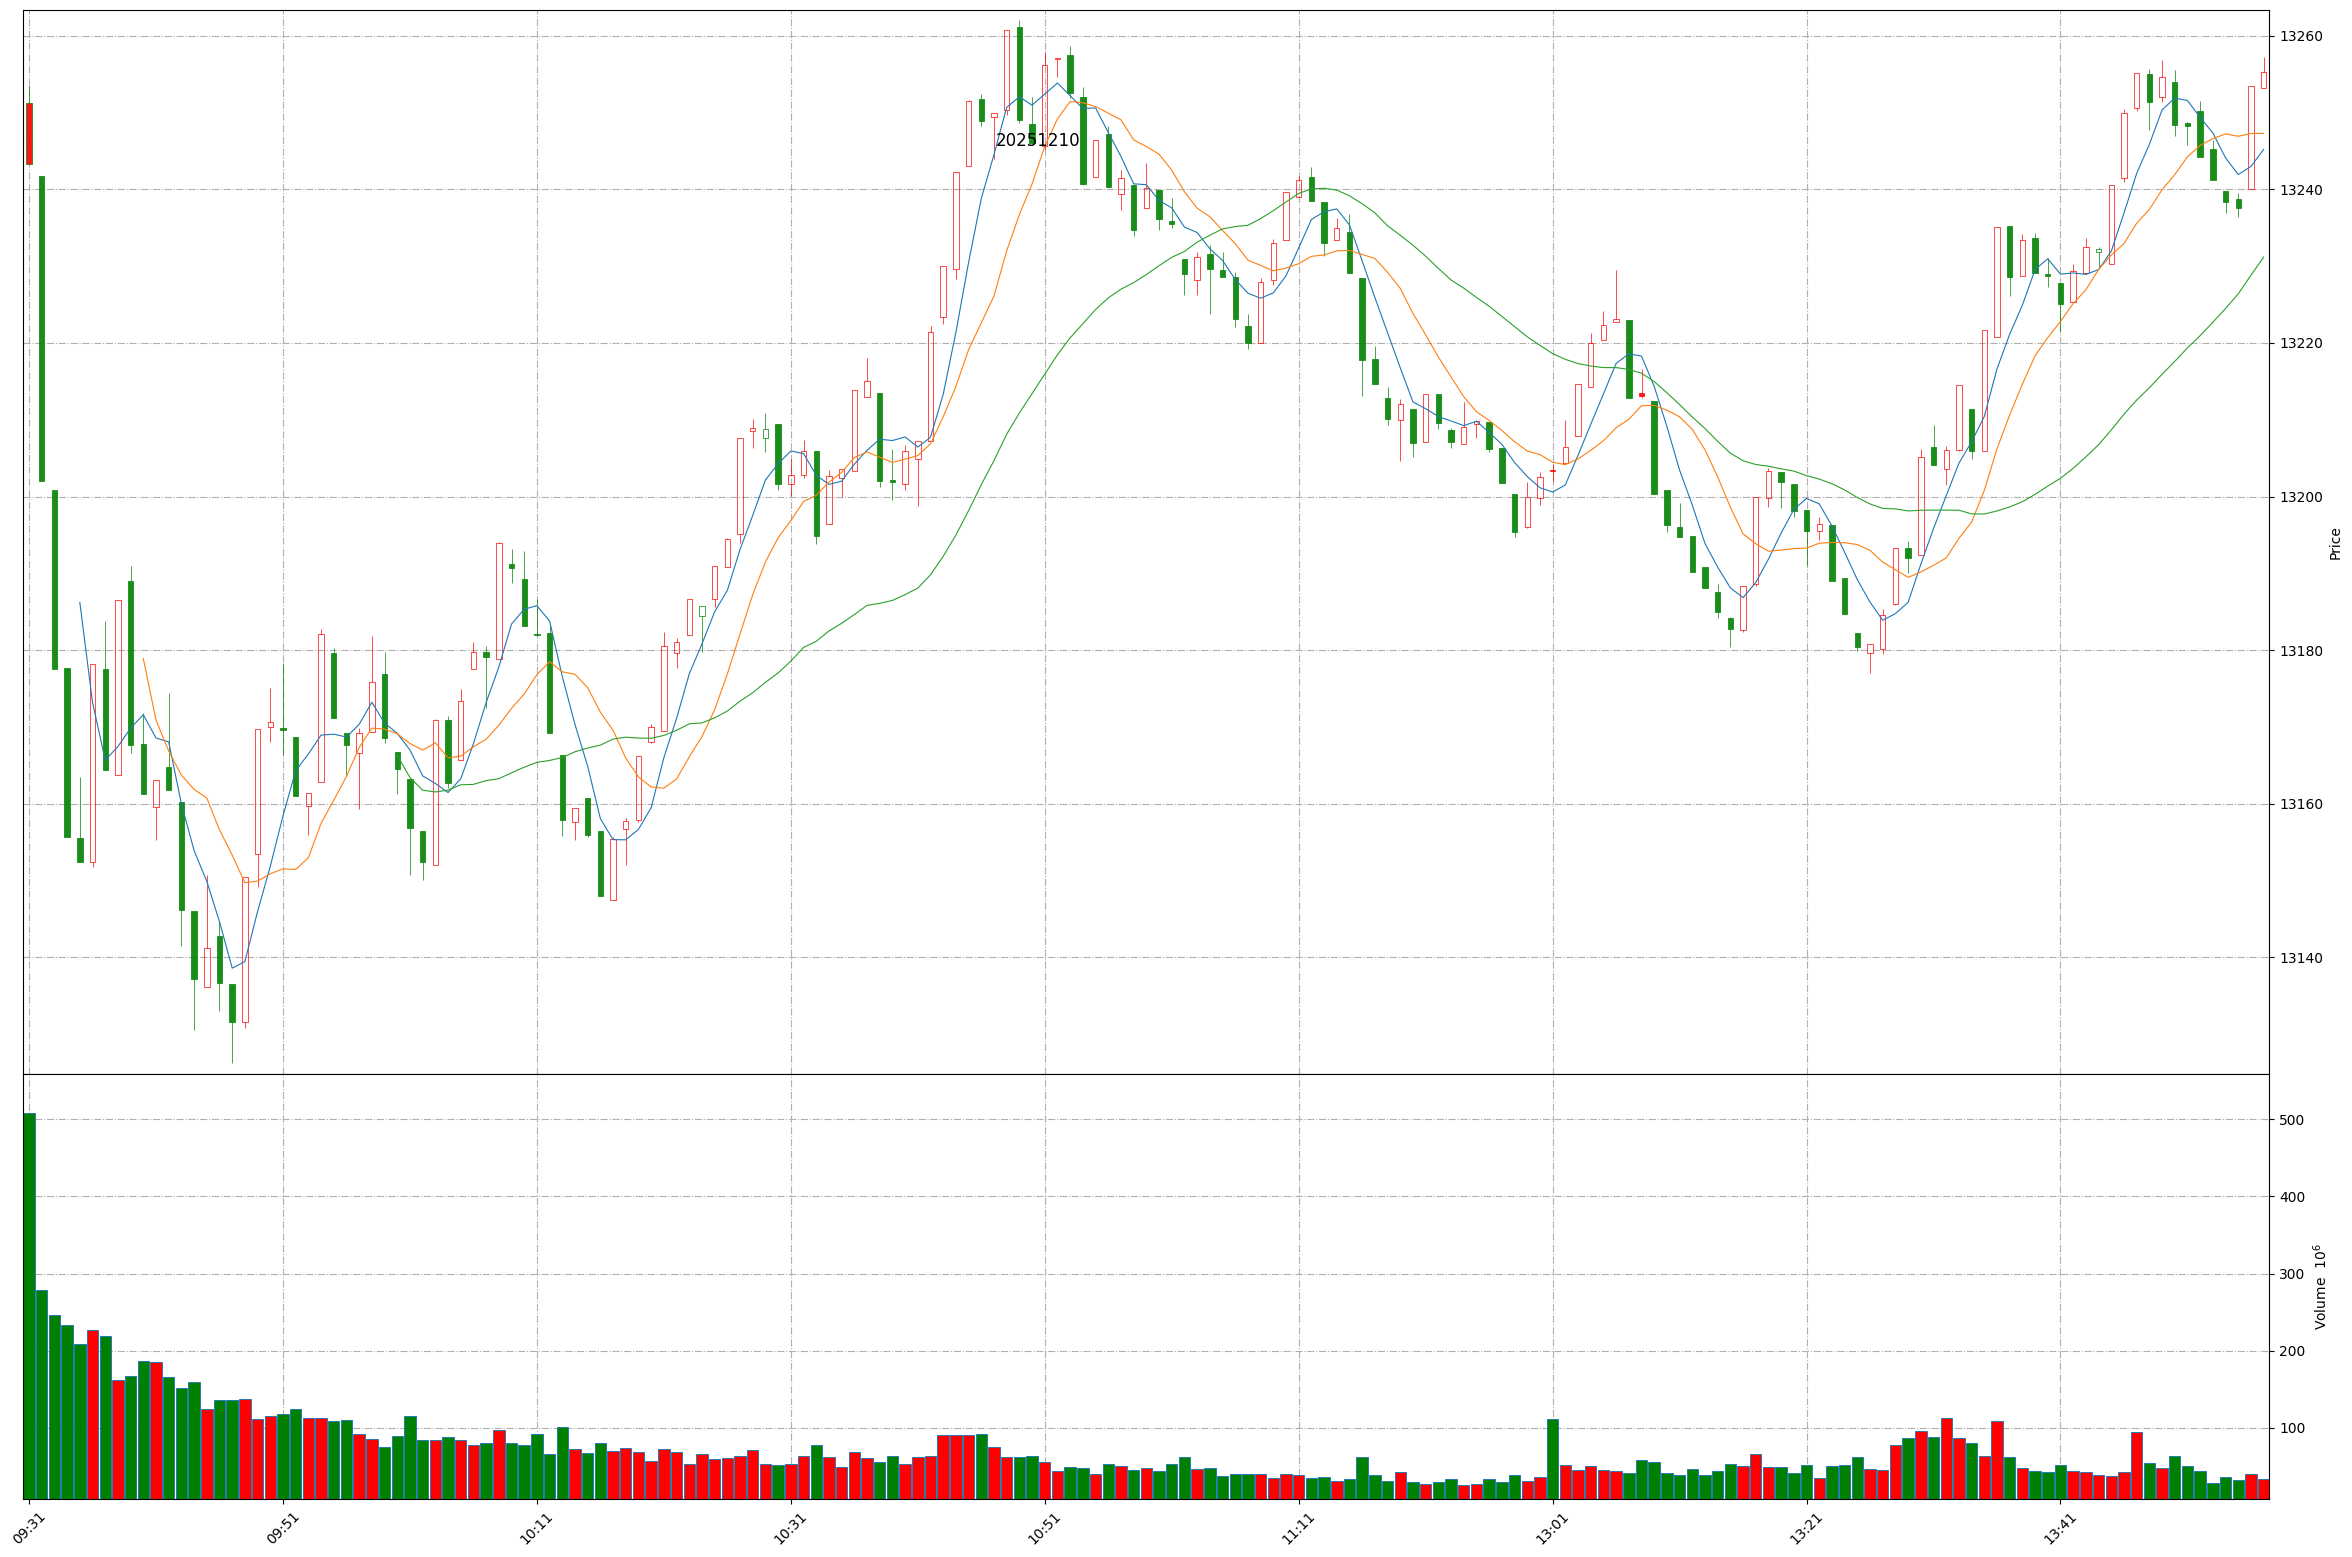
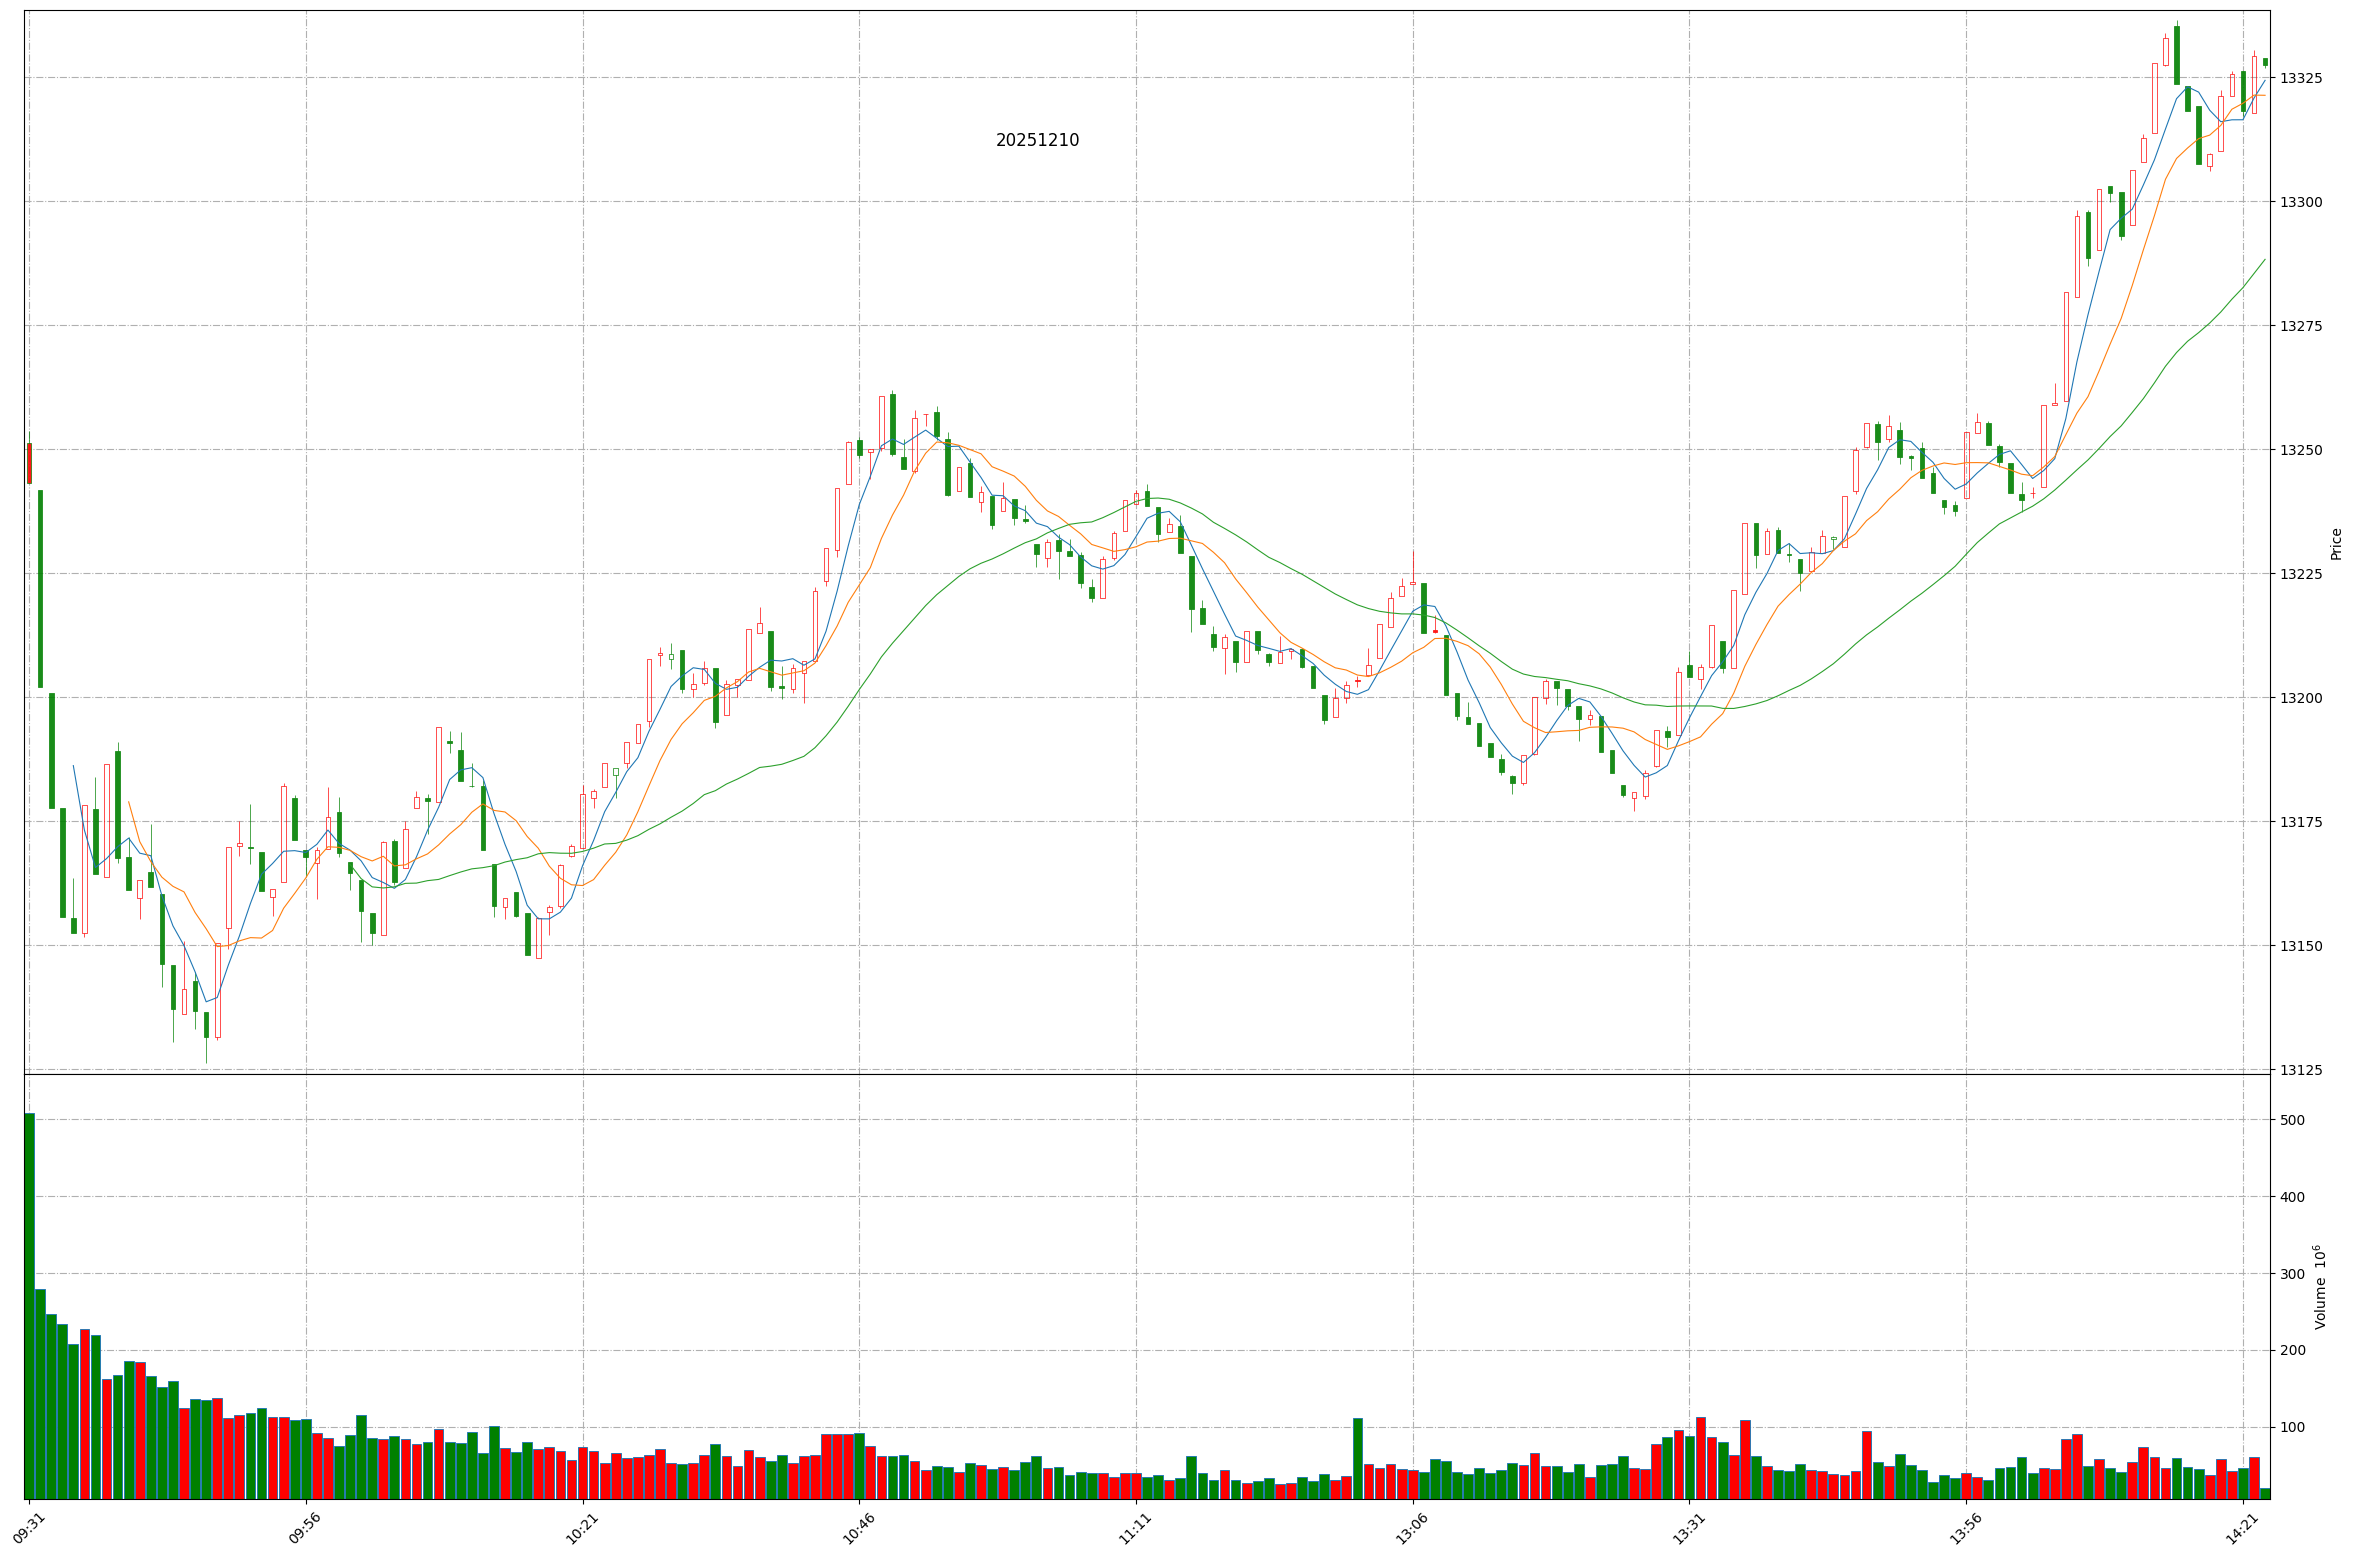
Github action update at 2025-12-10 14:22:29.

diff --git a/README.md b/README.md
@@ -1,11 +1,11 @@
 
 # Daily-A-share-market-quotes 每日 A 股指数（5min 更新）- 20251210
 
-### 上证指数 20251210 13:57
+### 上证指数 20251210 14:22
 ![](./fig/2025/12/20251210-sh000001.png)
 
-### 深证成指 20251210 13:57
+### 深证成指 20251210 14:22
 ![](./fig/2025/12/20251210-sz399001.png)
 
-### 北证50 20251210 13:57
+### 北证50 20251210 14:22
 ![](./fig/2025/12/20251210-bj899050.png)
